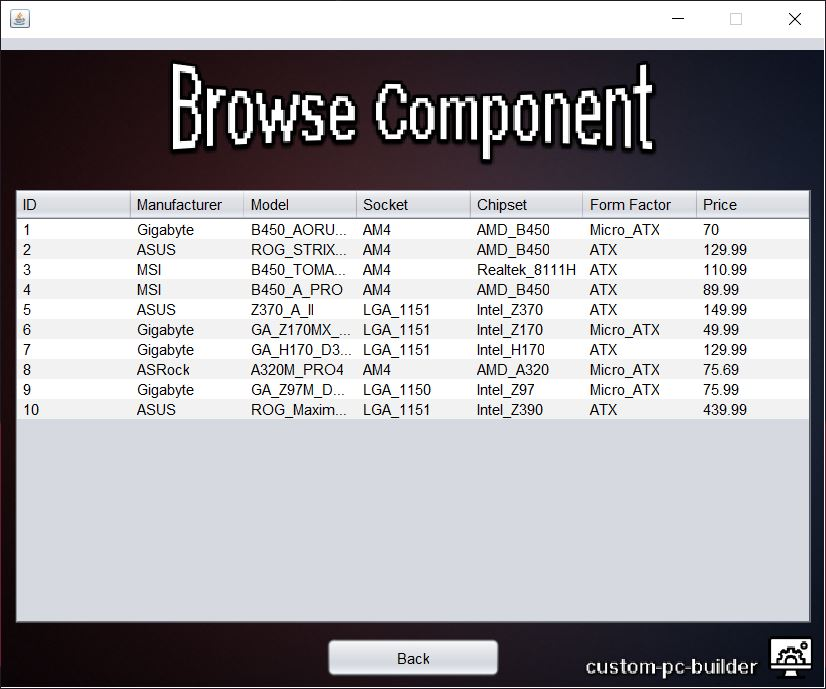
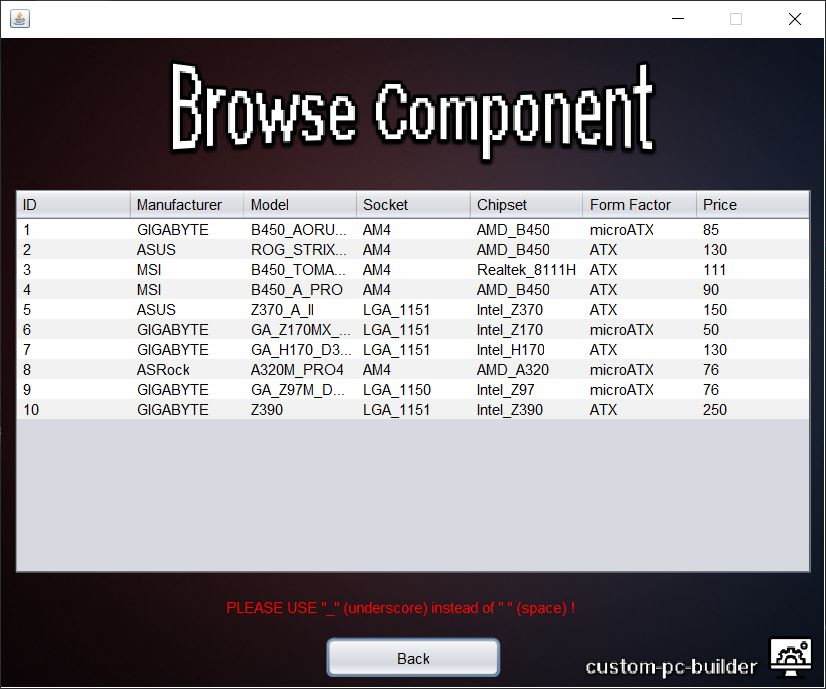
added pictures of the browsing and adding component
added demo pictures of the browse and add component menus to add in the readme

diff --git a/src/core/addMotherboard.java b/src/core/addMotherboard.java
@@ -43,7 +43,7 @@ public class addMotherboard extends javax.swing.JFrame {
         jLblTitle = new javax.swing.JLabel();
         jLblLogo = new javax.swing.JLabel();
         jLblManufacturer = new javax.swing.JLabel();
-        jTxtManufacturer = new javax.swing.JTextField();
+        jComboManufacturer = new javax.swing.JComboBox<>();
         jLblModel = new javax.swing.JLabel();
         jTxtModel = new javax.swing.JTextField();
         jLblSocket = new javax.swing.JLabel();
@@ -83,8 +83,10 @@ public class addMotherboard extends javax.swing.JFrame {
         jLblManufacturer.setText("Manufacturer:");
         jPanel1.add(jLblManufacturer);
         jLblManufacturer.setBounds(180, 150, 100, 20);
-        jPanel1.add(jTxtManufacturer);
-        jTxtManufacturer.setBounds(390, 150, 100, 24);
+
+        jComboManufacturer.setModel(new javax.swing.DefaultComboBoxModel<>(new String[] { "ASRock", "ASUS", "Biostar", "EVGA", "GIGABYTE", "MSI" }));
+        jPanel1.add(jComboManufacturer);
+        jComboManufacturer.setBounds(390, 150, 100, 26);
 
         jLblModel.setForeground(new java.awt.Color(255, 255, 255));
         jLblModel.setText("Model:");
@@ -168,7 +170,7 @@ public class addMotherboard extends javax.swing.JFrame {
 
     private void jBtnAddActionPerformed(java.awt.event.ActionEvent evt) {//GEN-FIRST:event_jBtnAddActionPerformed
         // TODO add your handling code here:
-        String manufacturer = jTxtManufacturer.getText();
+        String manufacturer = jComboManufacturer.getSelectedItem().toString();
         String model = jTxtModel.getText();
         String socket = jTxtSocket.getText();
         String chipset = jTxtChipset.getText();
@@ -196,7 +198,6 @@ public class addMotherboard extends javax.swing.JFrame {
         motherboardConnect con = new motherboardConnect();
         con.add(columns, manufacturer, model, socket, chipset, formFactor, price);
         
-        jTxtManufacturer.setText("");
         jTxtModel.setText("");
         jTxtSocket.setText("");
         jTxtChipset.setText("");
@@ -259,6 +260,7 @@ public class addMotherboard extends javax.swing.JFrame {
     private javax.swing.JButton jBtnBack;
     private javax.swing.JComboBox<String> jComboBox1;
     private javax.swing.JComboBox<String> jComboFormFactor;
+    private javax.swing.JComboBox<String> jComboManufacturer;
     private javax.swing.JLabel jLblBackground;
     private javax.swing.JLabel jLblChipset;
     private javax.swing.JLabel jLblFormFactor;
@@ -270,7 +272,6 @@ public class addMotherboard extends javax.swing.JFrame {
     private javax.swing.JLabel jLblTitle;
     private javax.swing.JPanel jPanel1;
     private javax.swing.JTextField jTxtChipset;
-    private javax.swing.JTextField jTxtManufacturer;
     private javax.swing.JTextField jTxtModel;
     private javax.swing.JTextField jTxtPrice;
     private javax.swing.JTextField jTxtSocket;
